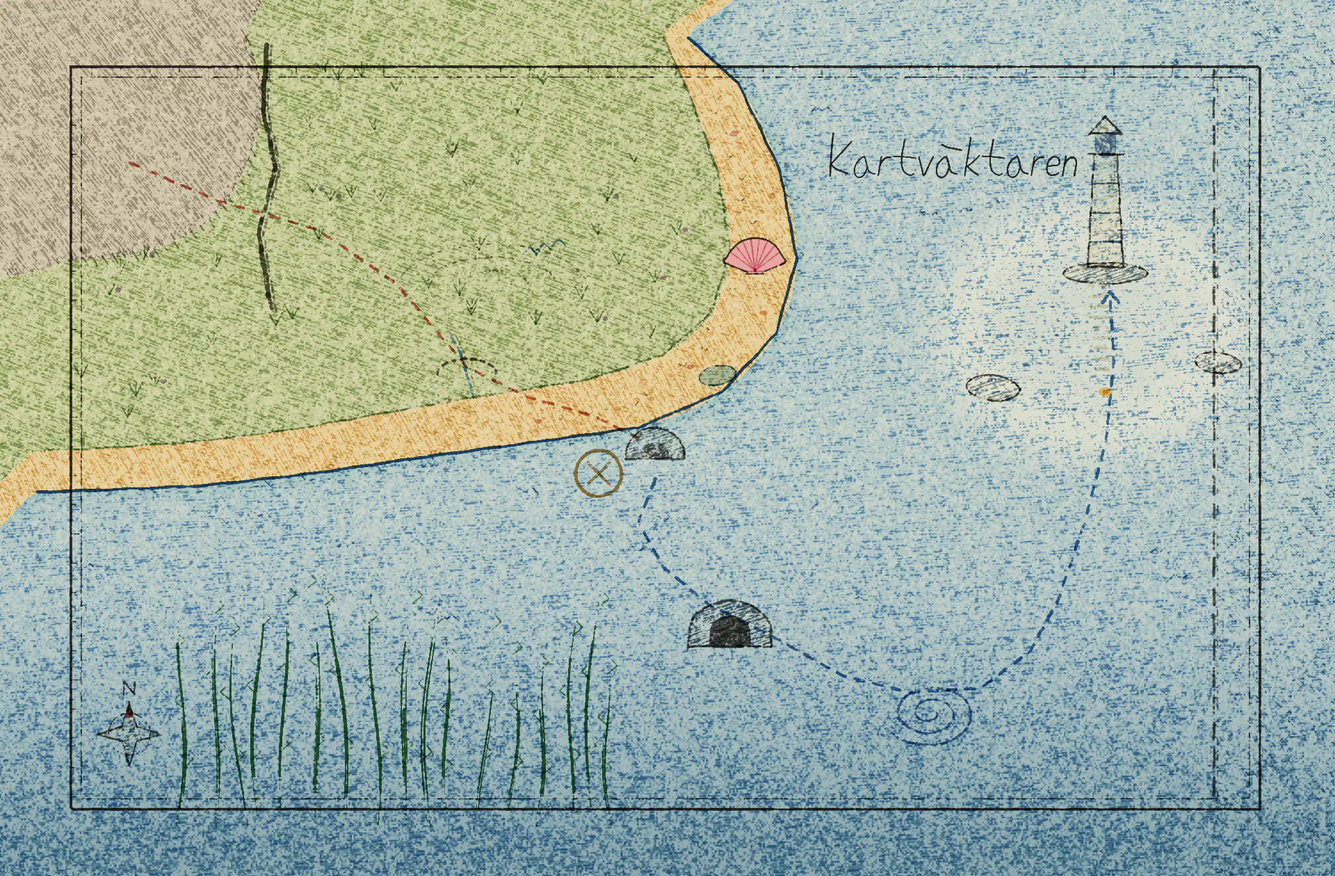
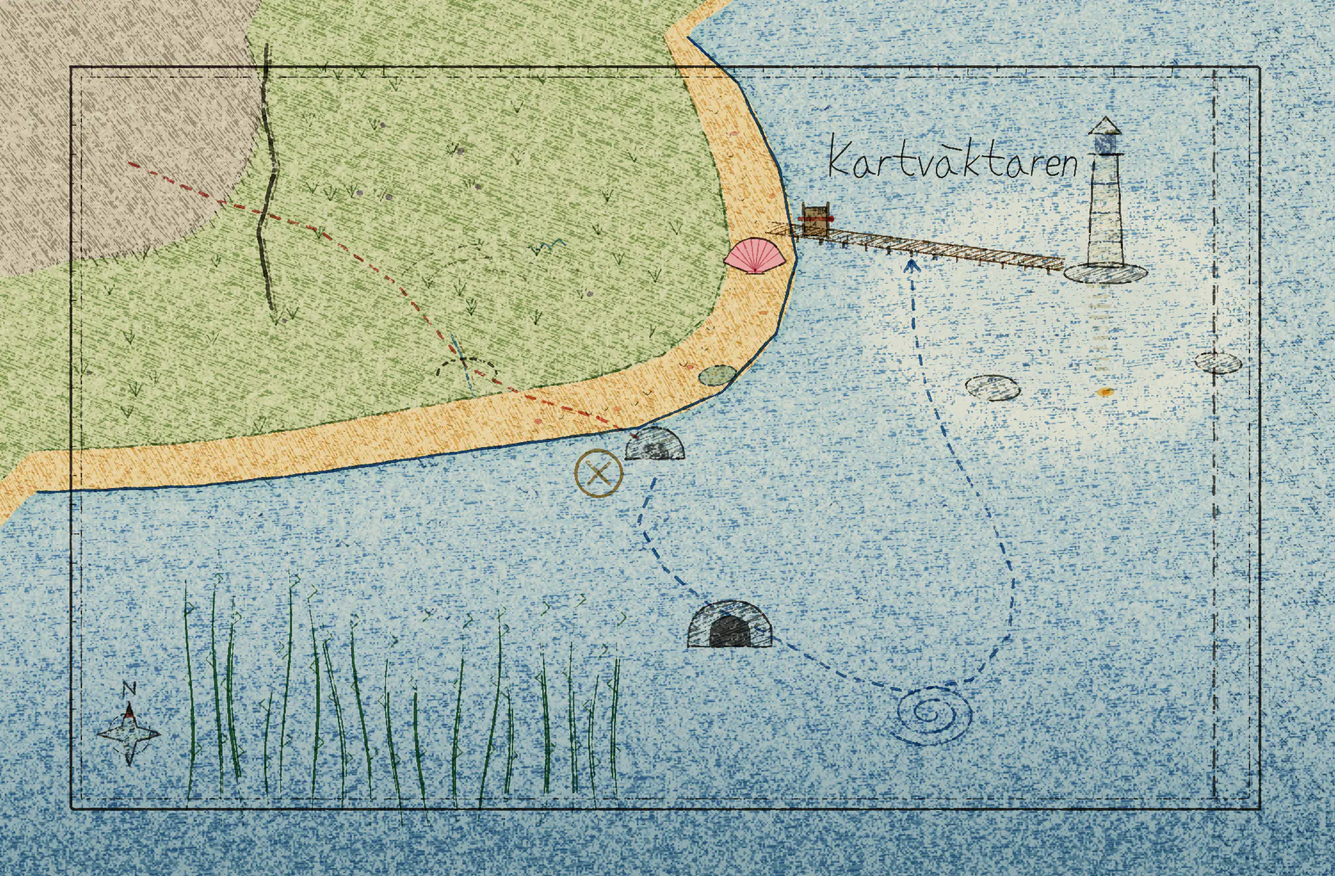
Show where we are on the map, and draw Bryggan with its bolted gate
The journal's map and its thumbnail put a little sköldhäst ("Här är vi")
where the player is in the world, naming the place once it is known. The
wooden jetty with the locked gate, in plain view from the beach, is now
drawn from the sand out to Pappersfyren's islet, and the sea route ends
under it where the swimmer comes up. The thumbnail's title no longer
runs into its count on phones.

diff --git a/skoldhast/skoldhast.css b/skoldhast/skoldhast.css
@@ -519,15 +519,29 @@ html.skoldhast-lock, html.skoldhast-lock body { overflow: hidden !important; ove
 .sk-j-sketch::before { content: ''; position: absolute; left: 10px; top: 9px; width: 28px; height: 28px; background: var(--sk-icons) 16.667% 0 / 700% 400% no-repeat; }
 .sk-j-known .sk-j-klo { width: 118px; transform: scaleX(-1); }
 /* the map, small: the same drawing and torn pieces as the clue page (tap to open it) */
-.sk-mapthumb { position: relative; display: block; width: 100%; max-width: 420px; margin: 8px 0 4px; padding: 26px 10px 8px;
+/* its title and count share a row over the drawing; on a narrow page the title wraps instead of running into the count */
+.sk-mapthumb { position: relative; display: grid; grid-template-columns: minmax(0, 1fr) auto; column-gap: 10px; row-gap: 3px; align-items: baseline;
+    width: 100%; max-width: 420px; margin: 8px 0 4px; padding: 5px 10px 8px; container: sk-mapthumb / inline-size;
     align-self: stretch; box-sizing: border-box; border: 0; border-radius: 4px; background: rgba(247, 238, 216, 0.5);
     font: inherit; color: inherit; cursor: pointer; text-align: left; }
 .sk-mapthumb::after { content: ''; position: absolute; inset: -5px; pointer-events: none; border: 14px solid transparent; border-image: var(--sk-frame-sm) 28 / 14px stretch; opacity: 0.7; }
-.sk-mapthumb svg { display: block; width: 100%; height: auto; aspect-ratio: 32 / 21; }
+.sk-mapthumb svg { grid-area: 2 / 1 / 3 / 3; display: block; width: 100%; height: auto; aspect-ratio: 32 / 21; }
+/* Här är vi: the little sköldhäst where we are, with a slow ring that breathes */
+.sk-map-here { pointer-events: none; }
+.sk-map-here-label { font-family: 'Patrick Hand', cursive; font-size: 17px; }
+.sk-map-here-ring { transform-box: fill-box; transform-origin: center; animation: sk-map-here 2.4s ease-in-out infinite; }
+@keyframes sk-map-here { 0%, 100% { transform: scale(.82); opacity: .95; } 50% { transform: scale(1.12); opacity: .55; } }
+.sk-ui.less-motion .sk-map-here-ring { animation: none; }
+@media (prefers-reduced-motion: reduce) { .sk-map-here-ring { animation: none; } }
 .sk-mapthumb .map-labels { font-family: 'Patrick Hand', cursive; font-size: 22px; }
 .sk-mapthumb .map-labels .minor { font-size: 16px; }
-.sk-mapthumb-title { position: absolute; top: 5px; left: 14px; font-size: calc(16px * var(--fz)); letter-spacing: 0.12em; text-transform: uppercase; color: var(--sk-soft); }
-.sk-mapthumb-count { position: absolute; top: 5px; right: 14px; font-size: calc(15px * var(--fz)); color: var(--sk-soft); }
+.sk-mapthumb-title { grid-area: 1 / 1; padding-left: 4px; font-size: calc(16px * var(--fz)); letter-spacing: 0.12em; text-transform: uppercase; color: var(--sk-soft); }
+.sk-mapthumb-count { grid-area: 1 / 2; padding-right: 4px; white-space: nowrap; font-size: calc(15px * var(--fz)); color: var(--sk-soft); }
+/* on a narrow page: the title on one line, the count under the drawing */
+@container sk-mapthumb (max-width: 380px) {
+    .sk-mapthumb-title { grid-area: 1 / 1 / 2 / 3; letter-spacing: 0.06em; }
+    .sk-mapthumb-count { grid-area: 3 / 1 / 4 / 3; justify-self: end; }
+}
 .sk-mapthumb:focus-visible { outline: 3px solid #b88436; outline-offset: 4px; }
 /* page 3: Klo's measurements */
 .sk-j-list { margin: 4px 0 8px; padding-left: 24px; line-height: 1.35; }

diff --git a/skoldhast/dev/menus.html b/skoldhast/dev/menus.html
@@ -23,6 +23,7 @@
     menus.html?m=title            title (&save=1 with a save, &slots=2 with two researchers)
     menus.html?m=code | restart | slots
     menus.html?m=journal&page=2   the journal at a page (0–6); &objective=p5
+                                  &where=land:116 puts Här är vi on the map (scene:x in horse lengths)
     menus.html?m=pause | stuck | settings | report&n=1
     menus.html?m=dialogue&who=klo | choice | toasts | hud | draw
     &big=1 bigger text, &less=1 less motion, &shot=1 hides this page's own links
@@ -74,7 +75,8 @@ function journalState() {
     const collection = { scenes: SCENES, flags };
     return { flags, objective: q.get('objective') || 'p5', tally: Number(q.get('tally') ?? 1), note: q.get('note') || '', pencils: 2, pencilsTotal: totalPencils(collection),
         pencilRegions: pencilProgress(collection).filter(r => r.id !== 'viken'),
-        visited: new Set(['land', 'kelp']), page: q.has('page') ? Number(q.get('page')) : undefined, onClose: () => log('journal closed') };
+        visited: new Set(['land', 'kelp']), page: q.has('page') ? Number(q.get('page')) : undefined, onClose: () => log('journal closed'),
+        where: q.has('where') ? { scene: q.get('where').split(':')[0], x: Number(q.get('where').split(':')[1]) } : null };
 }
 const titleOpts = () => ({
     hasSave: q.has('save'), slots: q.get('slots') === '2' ? [{ id: 'alva', label: 'Alva' }, { id: 'r-signe', label: 'Signe' }] : [{ id: 'alva', label: 'Alva' }],

diff --git a/skoldhast/HANDOVER.md b/skoldhast/HANDOVER.md
@@ -1,5 +1,42 @@
 # Sköldhästen – handover
 
+## Här är vi on the map, and Bryggan drawn on it (1 October)
+
+Branch `claude/skoldhast-map-here`. Pappa asked whether the map shows where we are ("That would
+have been nice to get an understanding of where we are"), and pointed out that the wooden bridge
+with the locked gate, which is in plain view from the beach and leads to the lighthouse, was
+missing from the map.
+
+- **Här är vi.** The journal's map page and its thumbnail on "Vad vet vi?" show a small pencil
+  sköldhäst in a slowly breathing red ring where the player is. The ring holds still with less
+  motion. Each scene's x is laid along the map (`MAP_WHERE` in `map-layout.mjs`): the land from
+  Klippudden over the steppe and beach out along Bryggan; under water from Vattenporten past Mörka
+  valvet to Kelphjärtat; the bay along Bryggan to Pappersfyren. The marker also shows over pieces
+  not found yet, which hints where the missing piece belongs. Screen readers hear "Här är vi: vid
+  <place>", naming the place only once its name is known (`placeAt`). On the map page the words
+  "Här är vi" go above or below the marker, whichever side has fewer place names (and less of
+  Kartväktaren's signature) in the way. The thumbnail shows the marker without words.
+- **Bryggan is on the map** (`MAP_PIER`, `MAP_PIER_GATE`, map art rebuilt): a plank deck from the
+  sand out to the lighthouse islet, with posts, its shadow on the water, and the gate standing on it
+  just past the waterline: a board door between two posts with a red bolt across. It is labelled
+  "Bryggan" (the word the game uses; "Trumbryggan" appears only in code comments). It is on the
+  corner piece, so it is there from the first piece.
+- **The sea route ends under Bryggan**, where the swimmer actually comes up (`SEA_BAY_LINK.baySpawn`).
+  It used to end at the tower. The map journey follows it and now names Bryggan. Spegelviken's pale
+  water reaches west to that spot, and its name moved right to stay clear of the route.
+- Also fixed: the map thumbnail's title ran into "3 av 3 kartbitar" on phones. Title and count now
+  share a grid row, and on narrow pages the count moves under the drawing.
+- Dev page: `menus.html?m=journal&page=4&map=all&where=land:116` places the marker.
+- No save-format, puzzle or release change; `RELEASED_CHAPTER` remains 3 and the ticket gate stays
+  hidden. Plan §3.3 rule 5 describes the map.
+- Verification: **378/378 pure tests pass**. New `tests/skoldhast-map-here.test.mjs` ties the world
+  to the map: the jetty, its gate wall and the viken pier lie on the drawn bridge; walking through the
+  gate does not jump; the route ends just under the bridge where the swimmer arrives; places are
+  named only when known; the words keep clear of names. The mapbook browser check passes at
+  390×844, 844×390, 320×568 and 1440×900 with keyboard and touch, and now also checks the marker on
+  the map page and the thumbnail. Real-game capture: pressing J under water shows the marker in
+  Kelpskogen. The crossing capture ends under Bryggan.
+
 ## Why we do things: drawing with the hooves, the story on the goal note, the map journey (1 October)
 
 Branch `claude/skoldhast-story-clarity`. Pappa asked for clearer puzzles, a clearer meaning of

diff --git a/docs/skoldhast-game-plan.md b/docs/skoldhast-game-plan.md
@@ -317,10 +317,15 @@ and why.
      the crossing or passes through Veckmuren. The underwater passage also allows a swimmer to return.
    - **The crossing is drawn on the mended map** (`src/map-journey.mjs`), not as a page turn: the sea left
      behind stays on screen while Kartväktaren's repaired map arrives over it, a small sköldhäst rides the
-     route the collected pieces made whole from Kelphjärtat round the headland to Spegelviken, and the bay
-     appears under the pier with depth, momentum and a hidden shell kept. The outflow current itself is
-     drawn in the map's blue ink, so the line Klo traced on paper is the current in the sea. The crossing
-     takes the whole water column below the surface swim, down to the floor.
+     route the collected pieces made whole from Kelphjärtat round the headland into Spegelviken, up under
+     Bryggan where the swimmer comes out, and the bay appears under the pier with depth, momentum and a
+     hidden shell kept. The outflow current itself is drawn in the map's blue ink, so the line Klo traced
+     on paper is the current in the sea. The crossing takes the whole water column below the surface swim,
+     down to the floor.
+   - **The map shows where we are, and what can be seen from there.** The journal's map, and its small copy
+     on "Vad vet vi?", puts a little sköldhäst ("Här är vi") where the player is in the world, also over
+     pieces not yet found. Bryggan, the jetty with the bolted gate that is in plain view from the beach, is
+     drawn from the beach out to Pappersfyren's islet, so the map shows what Alva can see.
 6. **Her outline clouds and m-gulls are her style, not damage.** A joke teaches this early:
    - Klo: "Varför är molnen inte färglagda?"
    - Sköldhästen: "Moln är vita, Klo."
